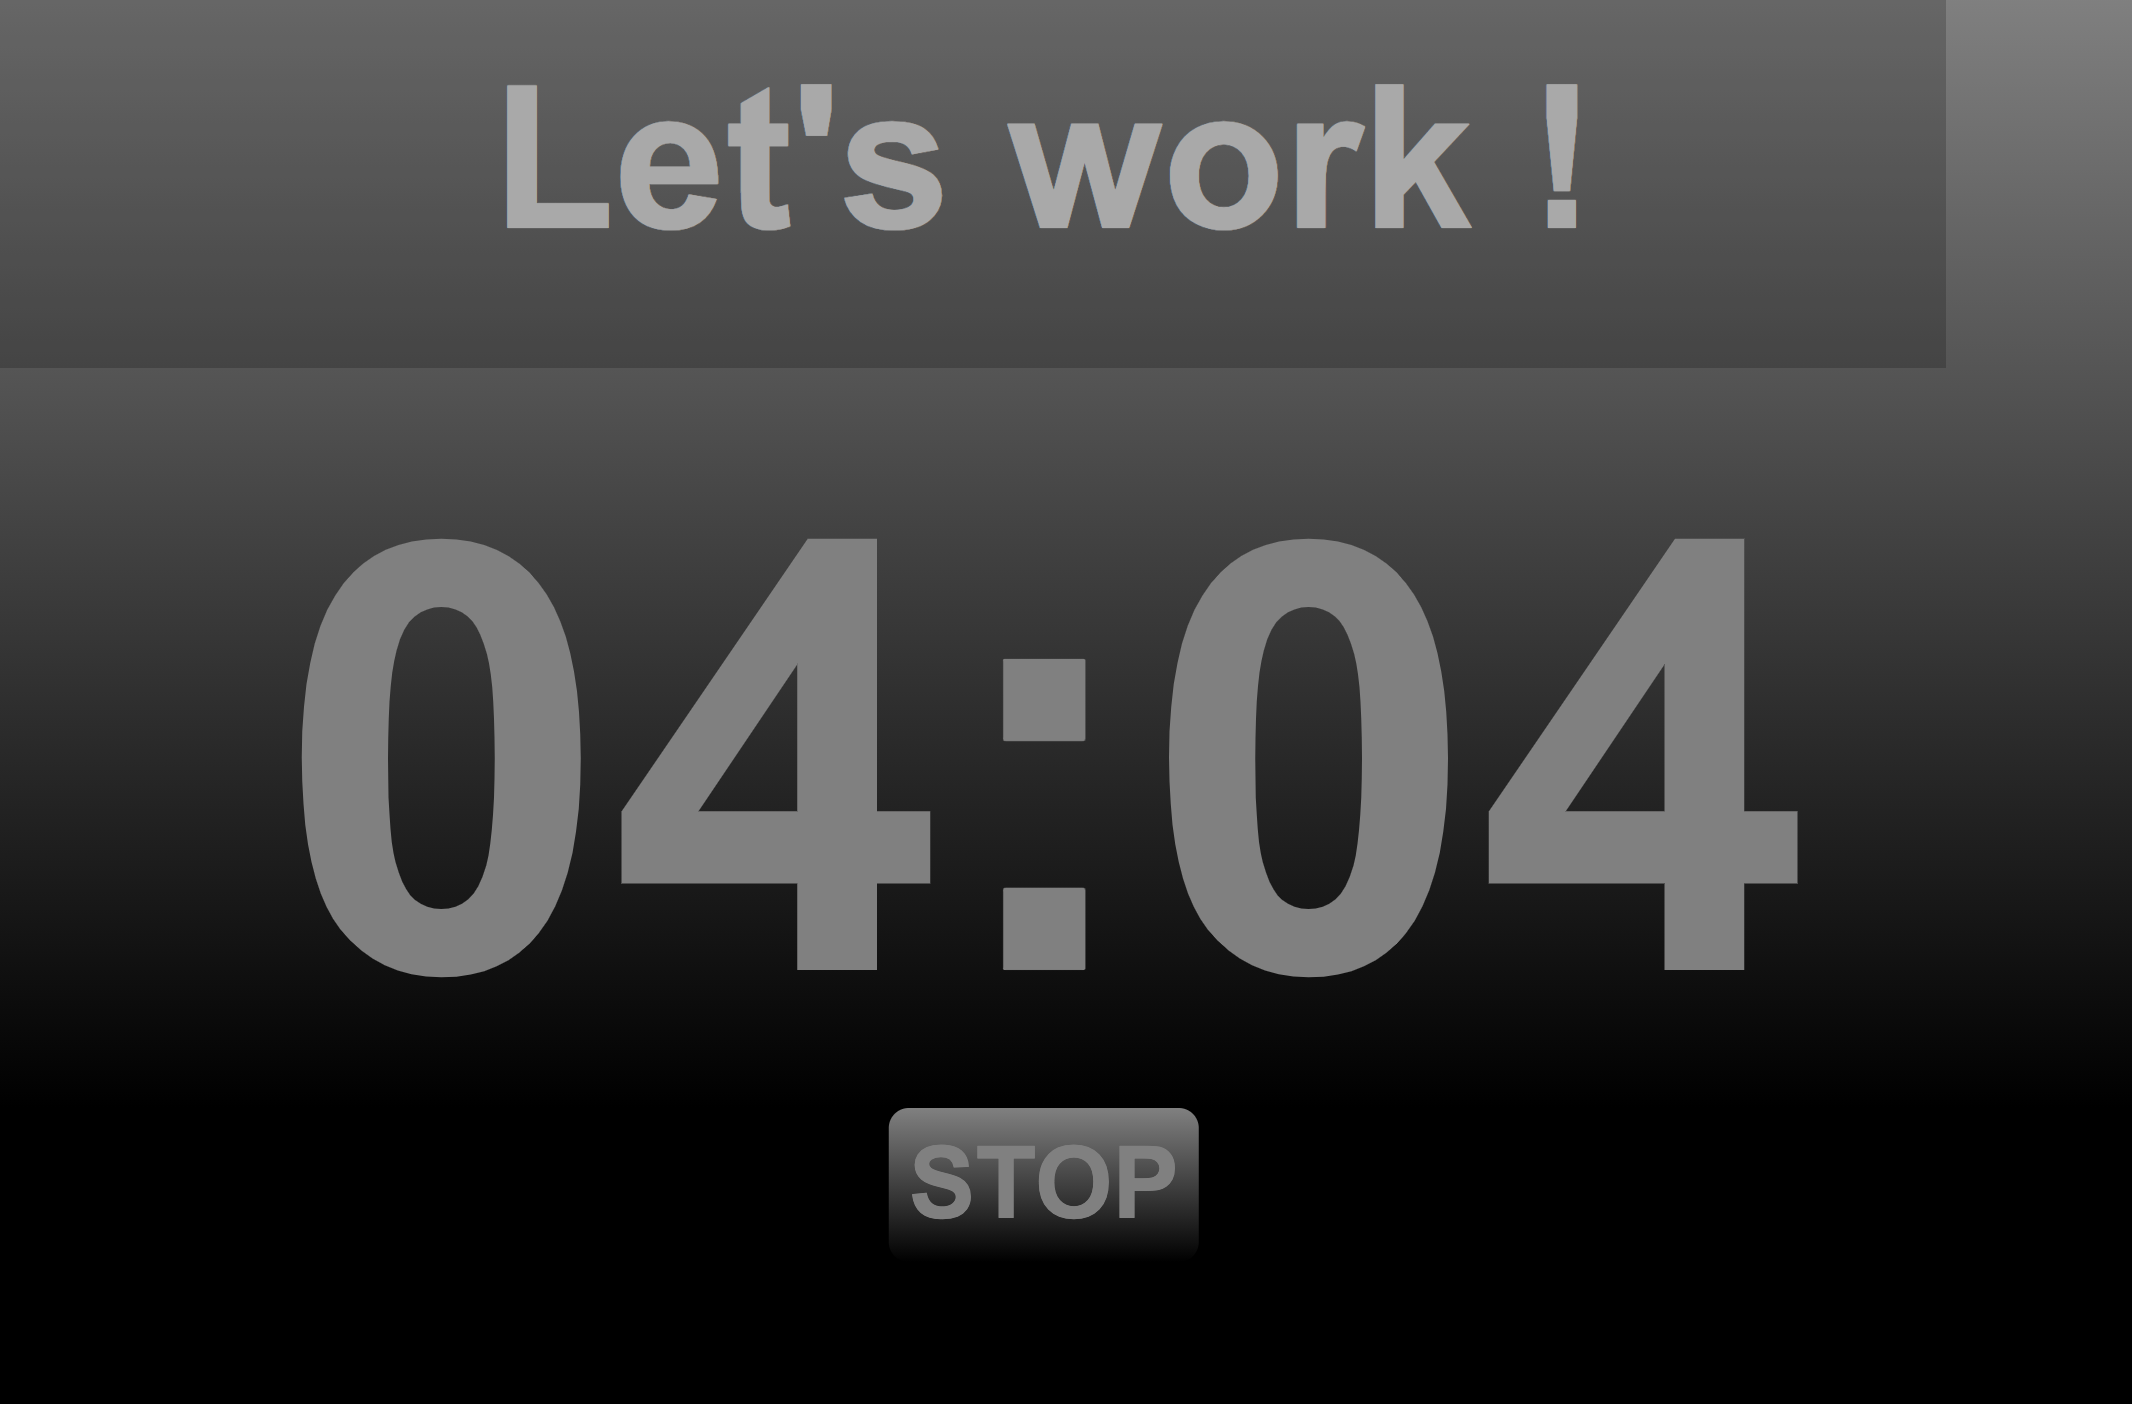
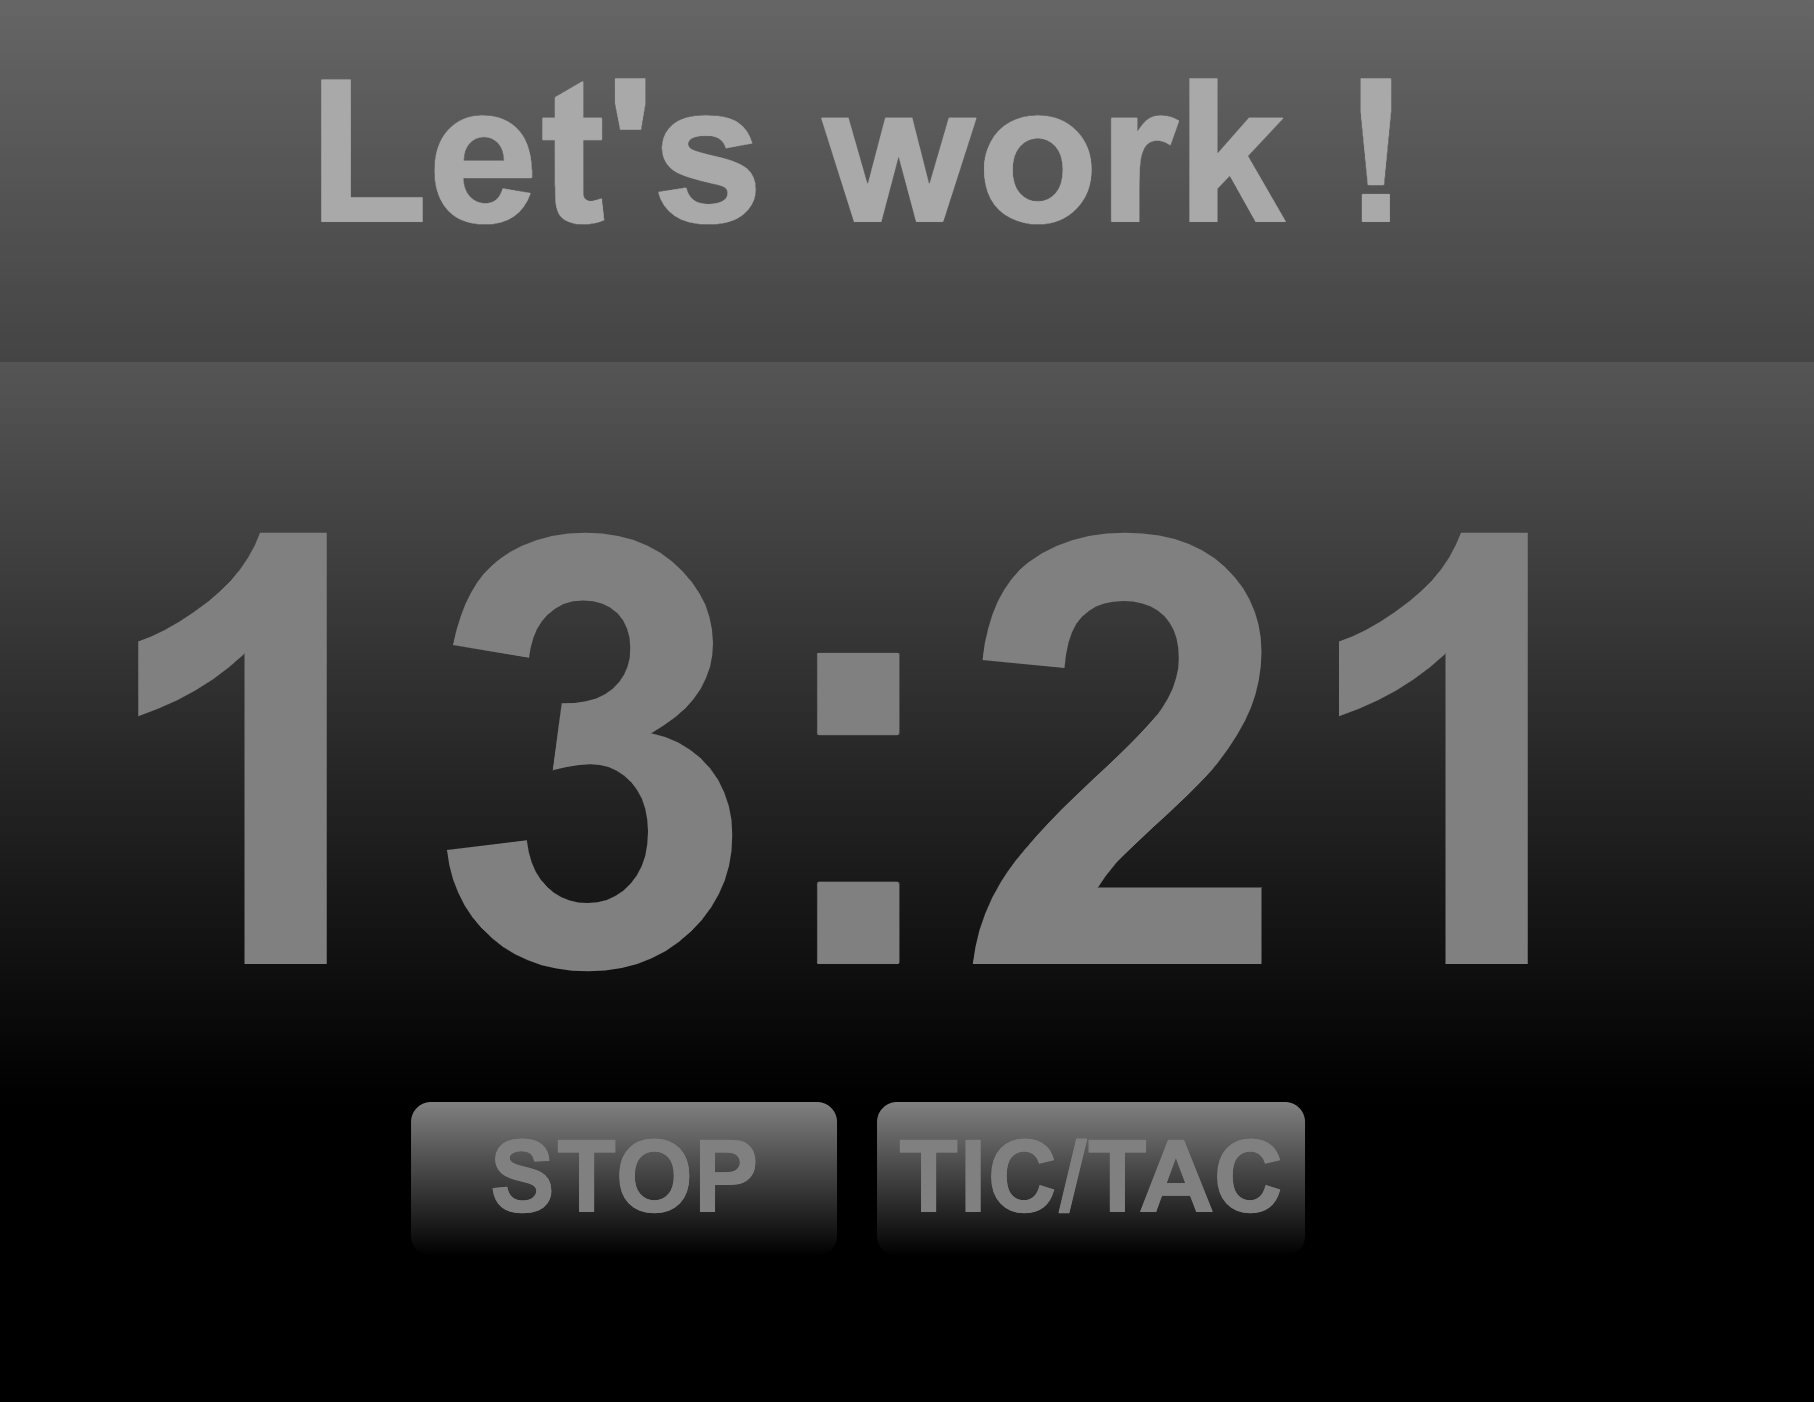
Add Tic/Tac

diff --git a/readme.md b/readme.md
@@ -39,6 +39,7 @@ The default timer is set to 5 minutes.
 1. A magnifical title on the top with a reverse progress bar !
 2. THE timer !
 3. The stop button to stop the timer and display the modal to reconfigure a new timer
+4. The TIC/TAC / Mute button to enable clock sound or not
 
 When the timer hit 00:00, the timer automatically stop and the modal screen pop-up
 
